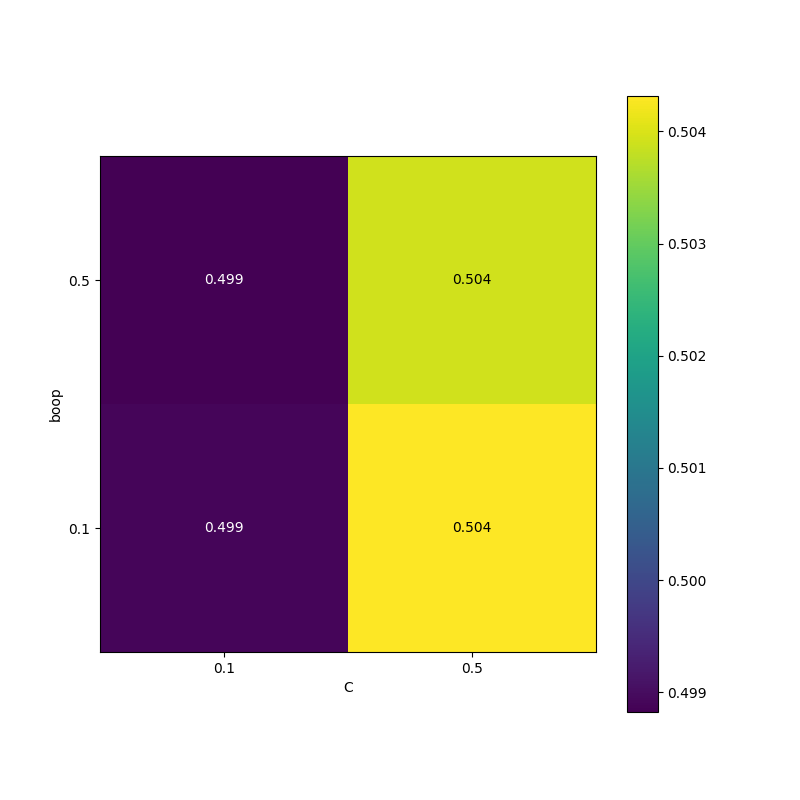
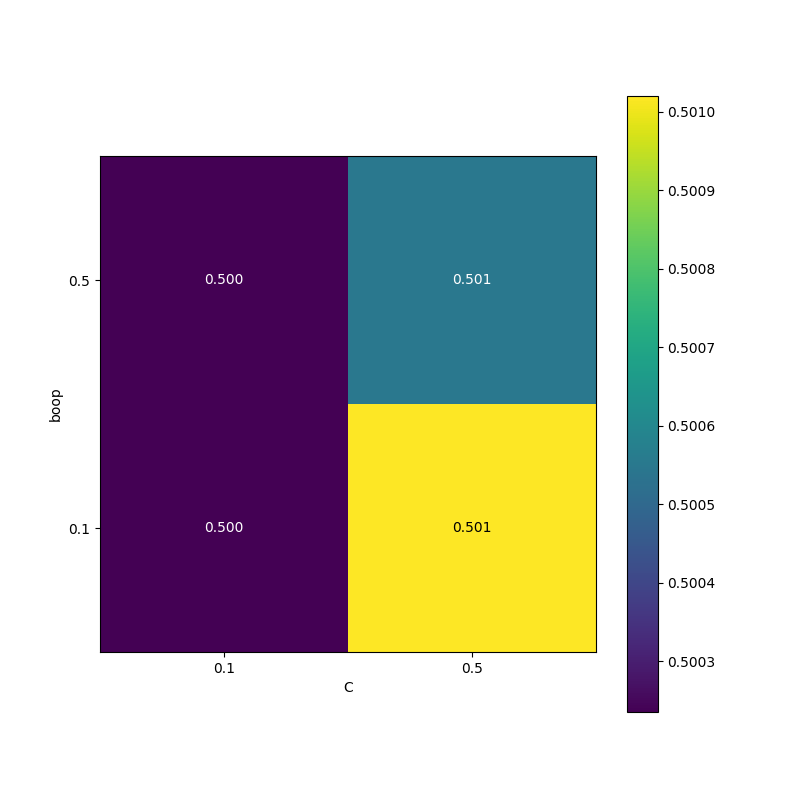
going to dinner

diff --git a/LinearSVC.py b/LinearSVC.py
@@ -71,7 +71,7 @@ class NumberSelector(BaseEstimator, TransformerMixin):
 
 def main():
     
-    with open('data/original_dataset_nounicode.json') as totalDataset,open('data/original_dataset_nounicode.json') as totalDataset1,open("data/numb_Hashtag.json") as numbHashtag,open("data/twitter_Hashtag.json") as hashTagTweet:
+    with open('data/original_dataset_nounicode.json') as totalDataset,open('data/original_dataset_nounicode.json') as totalDataset1,open("data/numb_Hashtag.json") as numbHashtag,open("data/twitter_Hashtag.json") as hashTagTweet, open("data/gender.json") as genderData:
         
         totalDataset = json.load(totalDataset)
         df=pandas.read_json(totalDataset1)
@@ -89,33 +89,32 @@ def main():
 
         #create models, plot and then get accuracy of models
         #created_at_acc = simpleFeature(created_at, gender, "Created At")
-        #favouritesResults = simpleFeature(favourites_count, gender, "Favourites Count")
+        favouritesResults = simpleFeature(favourites_count, gender, "Favourites Count")
         
-        #listed_acc = simpleFeature(listed_count, gender, "Listed Count")   
-        #description_acc = textClassification(description, gender, "Description")
-        #tweet_acc = textClassification(tweet, gender, "Tweet")
-        #name_acc = textClassification(name, gender, "name")
+        listed_acc = simpleFeature(listed_count, gender, "Listed Count")   
+        description_acc = textClassification(description, gender, "Description")
+        tweet_acc = textClassification(tweet, gender, "Tweet")
+        name_acc = textClassification(name, gender, "name")
         screen_name = textClassification(name, gender, "Screen Name")
 
-        #plotAccuracy(created_at_acc, favourites_acc,
-        #            listed_acc, description_acc,
-        #            tweet_acc, name_acc, 'Accuracy')
         
         
         df.dropna(axis=0)
         df.set_index('id', inplace=True)
         df.head()
-        #nameDescAcc=combinedFeatures("name", "description", df)
-        #nameTweetAcc=combinedFeatures("name", "tweet", df)
-        #nameScreen=combinedFeatures("name", "screen_name", df)
-        #nameCreatedAt=combinedFeatures("name", "created_at", df)
-        #tweetDesc=combinedFeatures("tweet", "description", df)
-        #tweetNameDesc=combinedThreeTextFeatures("tweet", "name", "description", df)
-      
-        #hashtagNumbAcc=hashtagNum(data, data2, "hashtag num ")
-        #hashtagText=hashtagText(data, data2, "hashtag num ")
+        nameDescAcc=combinedFeatures("name", "description", df)
+        nameTweetAcc=combinedFeatures("name", "tweet", df)
+        nameScreen=combinedFeatures("name", "screen_name", df)
+        nameCreatedAt=combinedFeatures("name", "created_at", df)
+        tweetDesc=combinedFeatures("tweet", "description", df)
+        tweetNameDesc=combinedThreeTextFeatures("tweet", "name", "description", df)
+        numbHashtag=json.load(numbHashtag)
+        genderData=json.load(genderData)
+        hashtagTweet=json.load(hashTagTweet)
+        hashtagNumbAcc=hashtagNum(numbHashtag, genderData, "hashtag num ")
+        hashtagTextAcc=hashtagText(hashtagTweet, genderData, "hashtag text ")
         
-        #plotAccuracy(favouritesResults, listed_acc, description_acc, tweet_acc, name_acc, screen_name, nameDescAcc, nameTweetAcc, nameScreen, nameCreatedAt, tweetDesc, tweetNameDesc, favouritesResults, favouritesResults)
+        plotAccuracy(favouritesResults, listed_acc, description_acc, tweet_acc, name_acc, screen_name, nameDescAcc, nameTweetAcc, nameScreen, nameCreatedAt, tweetDesc, tweetNameDesc, hashtagNumbAcc, hashtagTextAcc)
     
 
 def normaliseData(x):
@@ -125,10 +124,23 @@ def normaliseData(x):
 
 def plotAccuracy(favouritesAcc,listed_acc,description_acc,tweet_acc,name_acc,screen_name,nameDescAcc,nameTweetAcc,nameScreen,nameCreatedAt,tweetDesc,tweetNameDesc,boop,doop):
     plt.figure(figsize=(16, 16))
-    
-    y = (favouritesAcc,listed_acc,description_acc,tweet_acc,name_acc,screen_name,nameDescAcc,nameTweetAcc,nameScreen,nameCreatedAt,tweetDesc,tweetNameDesc,boop,doop)
+    plt.subplot(2,1,1)
+  
+    y = (favouritesAcc,listed_acc,description_acc,tweet_acc,name_acc,screen_name,nameDescAcc,nameTweetAcc)
 
-    X_axis = ['favourites', 'listed count', 'description', 'tweet', 'name', 'screen name', 'name+desc', 'name+tweet', 'name+screen', 'name+createdat', 'tweet+desc', 'tweet+name+desc', 'number hashtags', 'hashtag text']
+    X_axis = ['favourites', 'listed count', 'description', 'tweet', 'name', 'screen name', 'name+desc', 'name+tweet']
+
+    y_pos = np.arange(len(X_axis))
+
+    plt.bar(y_pos, y, align='center', alpha=0.5)
+    plt.xticks(y_pos, X_axis)
+    plt.ylabel('Accuracy')
+    plt.title('Accuracy of features')
+
+    plt.subplot(2,1,2)
+    y = (nameScreen,nameCreatedAt,tweetDesc,tweetNameDesc,boop,doop)
+
+    X_axis = ['name+screen', 'name+createdat', 'tweet+desc', 'tweet+name+desc', 'number hashtags', 'hashtag text']
 
     y_pos = np.arange(len(X_axis))
 
@@ -149,6 +161,7 @@ def plotHeatMap(graphName, clf, clist, interlist):
     graph = 'plots/' + graphName+'HyperParam.png'
     plt.savefig(graph)
     plt.close()
+    
 #https://scikit-learn.org/stable/auto_examples/model_selection/plot_precision_recall.html#sphx-glr-auto-examples-model-selection-plot-precision-recall-py
 def plotPrecisionRecall(predictions, y, graphName):
     precision, recall, _ = precision_recall_curve(predictions, y)
@@ -170,6 +183,7 @@ def plotPrecisionRecall(predictions, y, graphName):
     plt.title('2-class Precision-Recall curve: AP={0:0.2f}'.format(
           average_precision))
     plt.close()
+
 def plotSingleFeatureData(X, actY, predY, graph_name, xLabel, clf, clist, interlist):
     print(len(actY))
     fig, ax = plt.subplots(figsize=(6,2))
@@ -209,20 +223,21 @@ def created_at_model(created_at, y):
 def hashtagNum( data, data2,name):
     X, y=[],[]
     for values in data:
-        
+       
         if values in data2:
             if(data2[values]=="M"):
                 y.append(1)
             else:
                 y.append(0)
             X.append(data[values])
-          
+       
     X=np.array(X)
+    
     y=np.array(y)
   
-    simpleFeature(X, y, name)
-    print("Model is " + name)
-    return 0
+    accuracy=simpleFeature(X, y, name)
+   
+    return accuracy
 def hashtagText( data, data2,name):
     X, y=[],[]
     for values in data:

diff --git a/README.md b/README.md
@@ -1,4 +1,8 @@
 # ML1819--task-107--team-41
 
-This repo contains all files relevant to assignment 1
-. SVM.py is the python file which performs the classification. twitter_gender_data.json contains our dataset.
+This repo contains all files relevant to assignment 2
+To do write report
+Increase number folds for linearsvc
+Modify Bayes to be like Linearsvc
+Add linear svc changes to kneighbours
+general code cleanup
